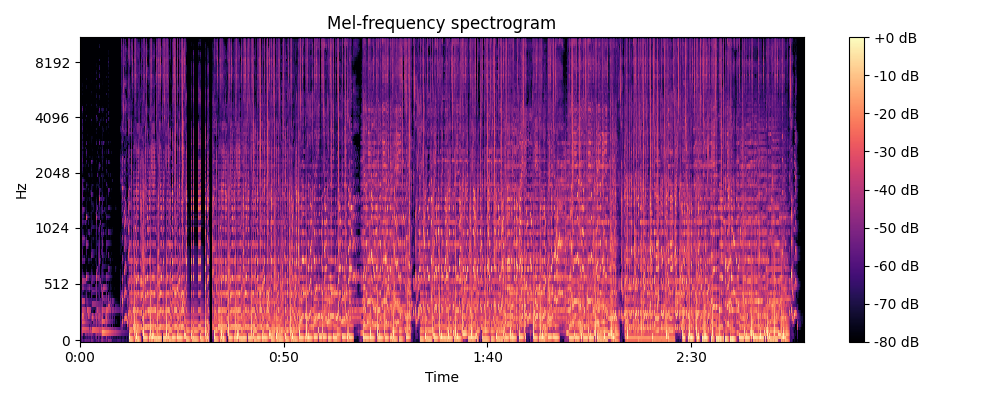
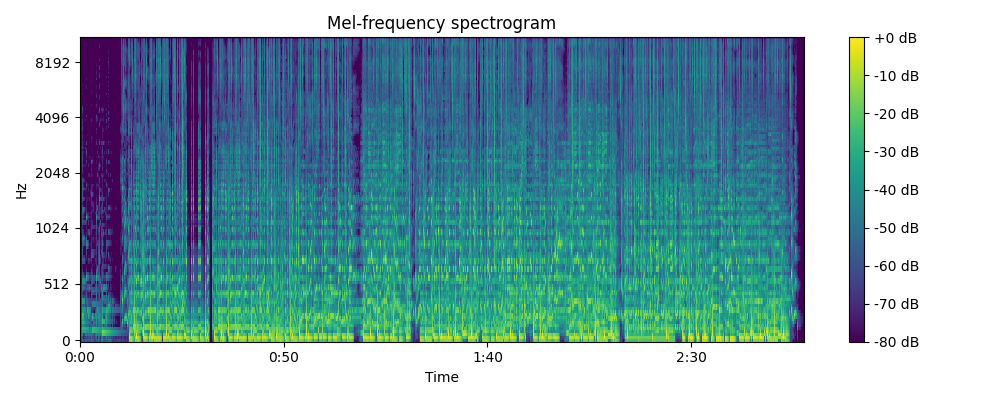
ajustes

diff --git a/src/backend/audio_processing.py b/src/backend/audio_processing.py
@@ -83,7 +83,12 @@ def generate_spectrogram(audio_path, output_dir):
     y, sr = librosa.load(audio_path)
     plt.figure(figsize=(10, 4))
     S = librosa.feature.melspectrogram(y=y, sr=sr)
-    librosa.display.specshow(librosa.power_to_db(S, ref=np.max), y_axis='mel', x_axis='time')
+    librosa.display.specshow(
+        librosa.power_to_db(S, ref=np.max),
+        y_axis='mel',
+        x_axis='time',
+        cmap="viridis" 
+    )
     plt.colorbar(format='%+2.0f dB')
     plt.title('Mel-frequency spectrogram')
     plt.tight_layout()
